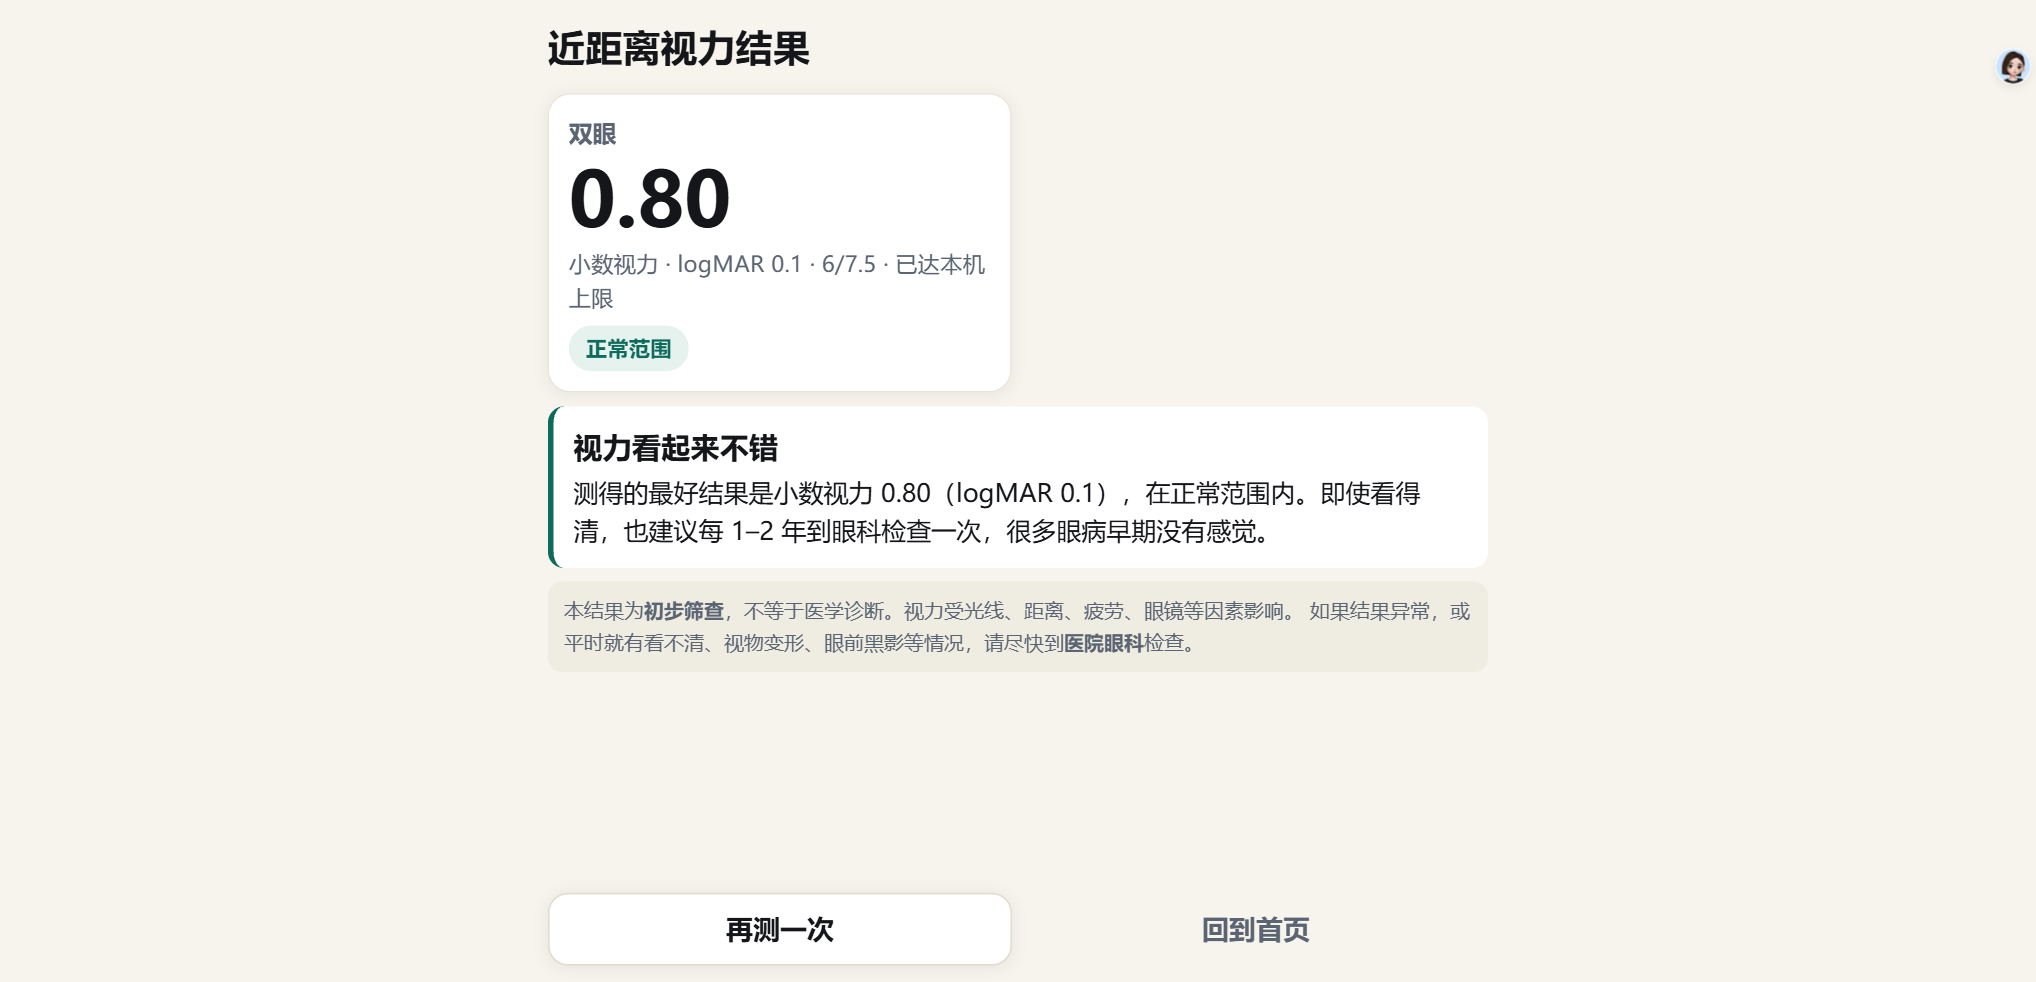
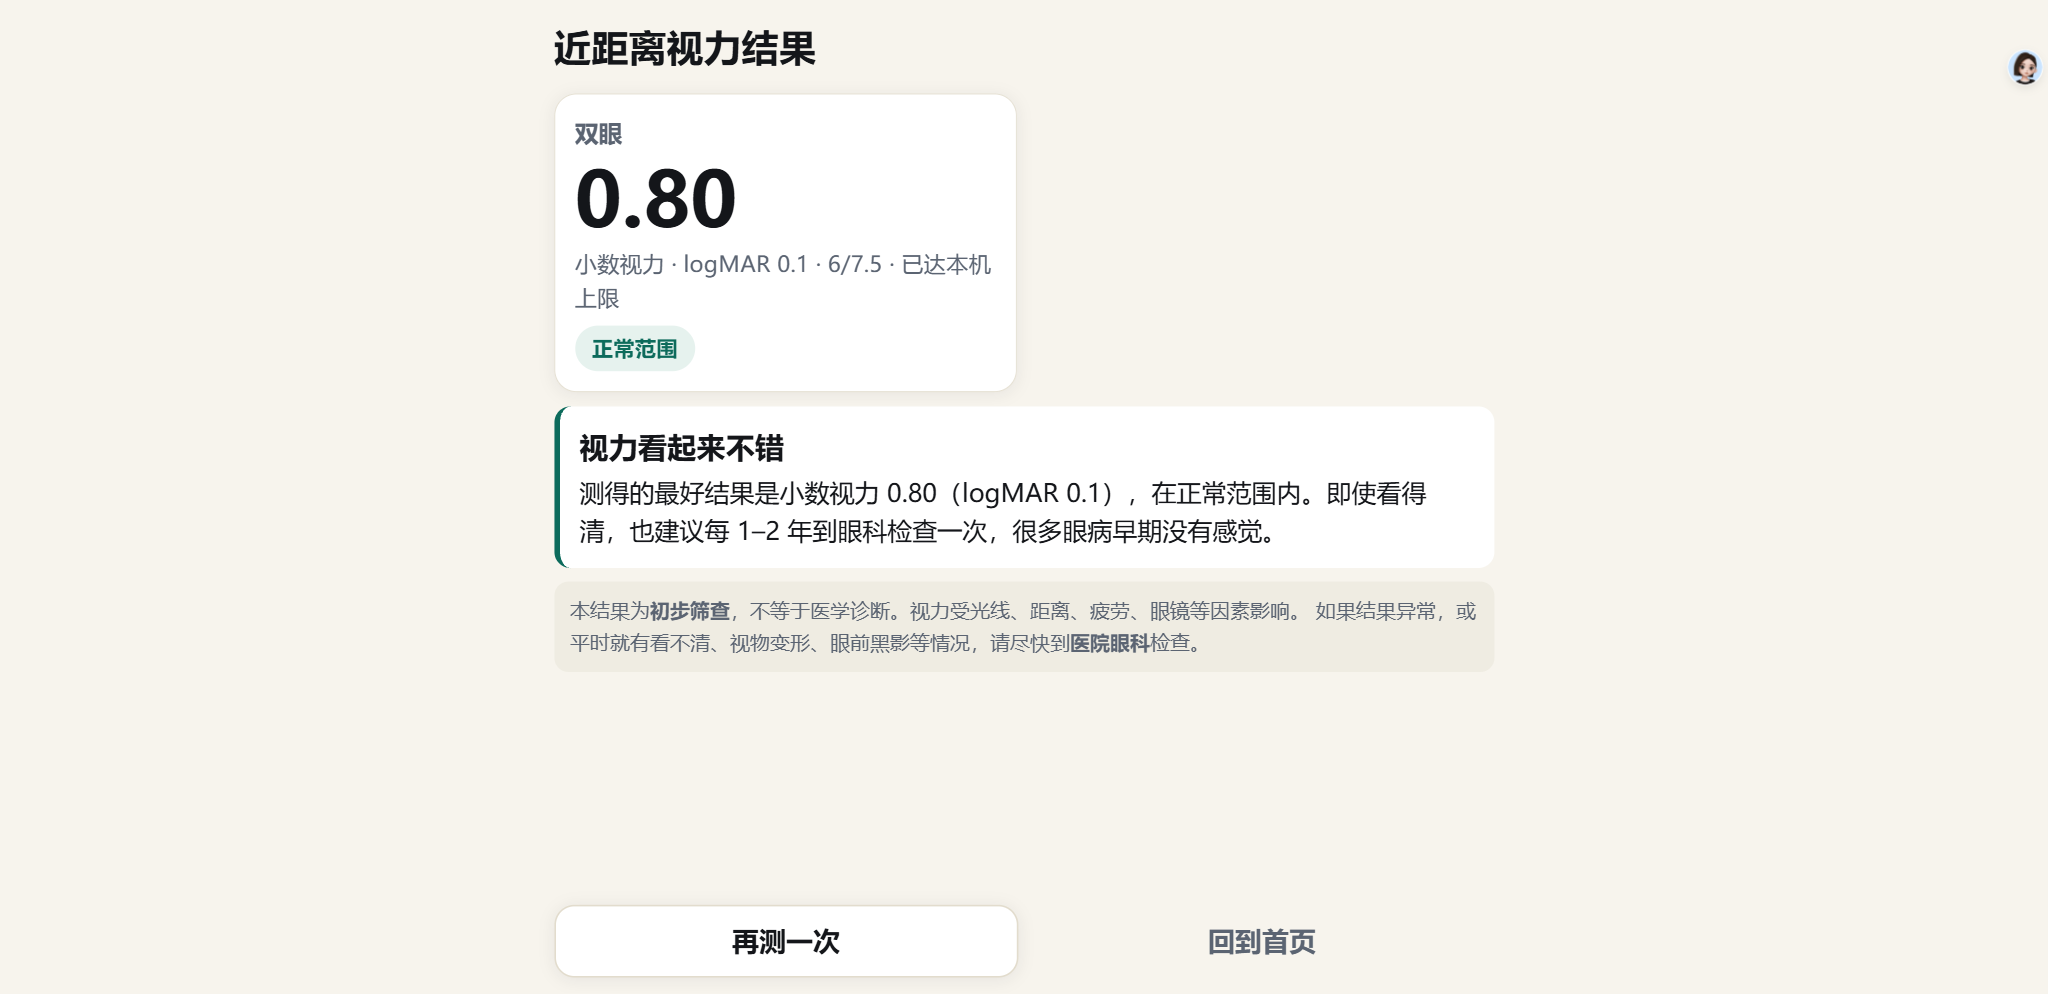
fix: 语音识别后 500ms 静音收尾，防止下一句粘连；更新测试说明与结果截图

diff --git a/index.html b/index.html
@@ -1442,13 +1442,14 @@ function renderBackendStatus(){
 }
 
 /* ---------- 实时语音（WebSocket + 16k PCM） ---------- */
-const SRV = { ws: null, ctx: null, stream: null, node: null, active: false, onEvent: null };
+const SRV = { ws: null, ctx: null, stream: null, node: null, active: false, onEvent: null, muteUntil: 0 };
 
 async function srvStartListening(onEvent){
   if (SRV.active) { SRV.onEvent = onEvent; return; }
   if (!BACKEND.asrReady()) throw new Error('Python 语音后端未连接');
   const url = BACKEND.wsUrl('/ws/asr');
   SRV.onEvent = onEvent;
+  SRV.muteUntil = 0;
   const ws = new WebSocket(url);
   ws.binaryType = 'arraybuffer';
   await new Promise((resolve, reject) => {
@@ -1462,6 +1463,7 @@ async function srvStartListening(onEvent){
     let m; try { m = JSON.parse(ev.data); } catch(e){ return; }
     if (DEBUG) (window.__srvEvents = window.__srvEvents || []).push({ t: Date.now(), ...m });
     if (m.type === 'error') { toast('语音服务：' + (m.message || '错误')); return; }
+    if (m.type === 'final') SRV.muteUntil = performance.now() + 500;  // 给 VAD 收尾，避免下一句粘连
     if (SRV.onEvent) SRV.onEvent(m);
   };
   ws.onclose = () => { SRV.active = false; setMicBadge(null); };
@@ -1481,7 +1483,7 @@ async function srvStartListening(onEvent){
     const sink = ctx.createGain(); sink.gain.value = 0;
     node.onaudioprocess = (ev) => {
       if (!SRV.active || ws.readyState !== WebSocket.OPEN) return;
-      if (ttsBusy) return;                     // 别把设备自己的播报当答案
+      if (ttsBusy || performance.now() < SRV.muteUntil) return;   // 别把设备播报/上一句尾音当答案
       const d = ev.inputBuffer.getChannelData(0);
       const x = (Math.abs(ctx.sampleRate - 16000) > 80) ? ovResample(d, ctx.sampleRate) : d;
       const pcm = new Int16Array(x.length);

diff --git a/README.md b/README.md
@@ -95,6 +95,9 @@ python server/test_asr.py     # 21/21 硬性检查 PASS
 python server/test_pose.py    # 36/36 ALL PASS
 ```
 
+> 测试用的语音语料（`_test/`、`_test2/`）和手势图片（`_pose_test/`）是本地生成、未入库；
+> 运行前请先用 `tools/make_voice_samples.ps1` 等脚本准备，否则对应测试会报错。
+
 ## 还没做（按优先级）
 
 1. **摄像头实时测距**：用前置摄像头 + 人脸尺寸估计距离，随距离自动缩放视标（免去量距离）
